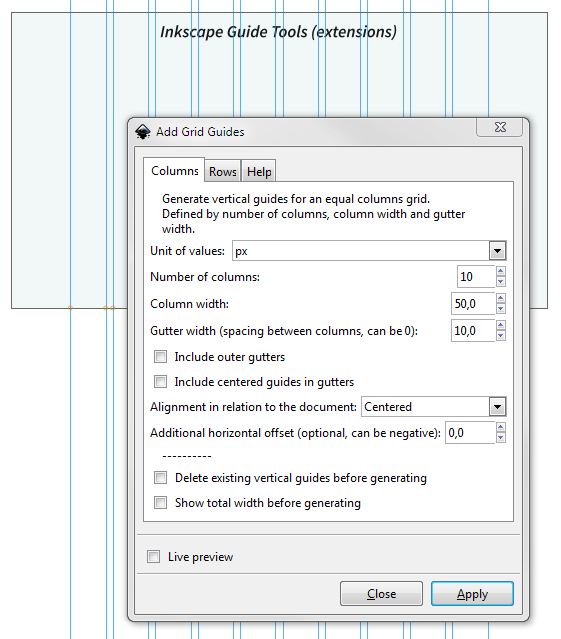
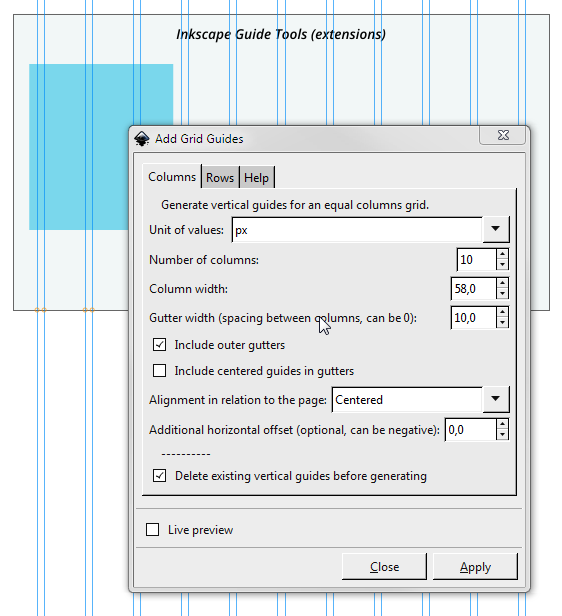
adapted screenshots

Changed region(s): [[0.0, 0.0, 1.0, 1.0]]

diff --git a/extensions/guidetools_add_grid_guides.py b/extensions/guidetools_add_grid_guides.py
@@ -101,11 +101,6 @@ class Grid_Guides(inkex.Effect):
 				dest = 'delete_vert_guides', default = False,
 				help = 'Delete existing vertical guides')
 
-		self.OptionParser.add_option('--show_total_width',
-				action = 'store', type = 'inkbool',
-				dest = 'show_total_width', default = False,
-				help = 'Show total width')
-
 		# ROWS (horizontal guides)
 
 		self.OptionParser.add_option('--row_unit',
@@ -153,11 +148,6 @@ class Grid_Guides(inkex.Effect):
 				dest = 'delete_hor_guides', default = False,
 				help = 'Delete existing horizontal guides')
 
-		self.OptionParser.add_option('--show_total_height',
-				action = 'store', type = 'inkbool',
-				dest = 'show_total_height', default = False,
-				help = 'Show total height')
-
 	def effect(self):
 
 		# Get script's option values from self.options
@@ -176,7 +166,6 @@ class Grid_Guides(inkex.Effect):
 		has_outer_col_gutter = self.options.include_outer_col_gutter
 		has_center_col_guides = self.options.include_center_col_guides
 		delete_hor = self.options.delete_hor_guides
-		show_total_width = self.options.show_total_width
 
 		# rows
 		row_factor = self.unittouu('1' + self.options.row_unit)
@@ -188,7 +177,6 @@ class Grid_Guides(inkex.Effect):
 		has_outer_row_gutter = self.options.include_outer_row_gutter
 		has_center_row_guides = self.options.include_center_row_guides
 		delete_vert = self.options.delete_vert_guides
-		show_total_height = self.options.show_total_height
 
 		# parent tag of the guides
 		namedview = self.document.xpath('/svg:svg/sodipodi:namedview',namespaces=inkex.NSS)[0]
@@ -240,10 +228,6 @@ class Grid_Guides(inkex.Effect):
 			if col_gut > 0 and has_center_col_guides == True:
 				guidetools.drawDoubleGuides(center_cols, col_width + col_gut, 0, center_hor_start, has_outer_col_gutter, "vertical", namedview)
 
-			# Give total width in original units
-			if (show_total_width == True):
-				guidetools.show("Total width of grid will be: " + str(total_col_width/col_factor) + " " + self.options.column_unit)
-
 		elif (tab == "\"rows\""):
 
 			# Delete existing horizontal guides
@@ -273,10 +257,6 @@ class Grid_Guides(inkex.Effect):
 			# Draw centered guides if necessary 
 			if row_gut > 0 and has_center_row_guides == True:
 				guidetools.drawDoubleGuides(center_rows, row_height + row_gut, 0, center_vert_start, has_outer_row_gutter, "horizontal", namedview)
-
-			# Give total height in original units
-			if (show_total_height == True):
-				guidetools.show("Total height of grid will be: " + str(total_row_height/row_factor) + " " + self.options.row_unit)
 
 
 # Create effect instance and apply it.
